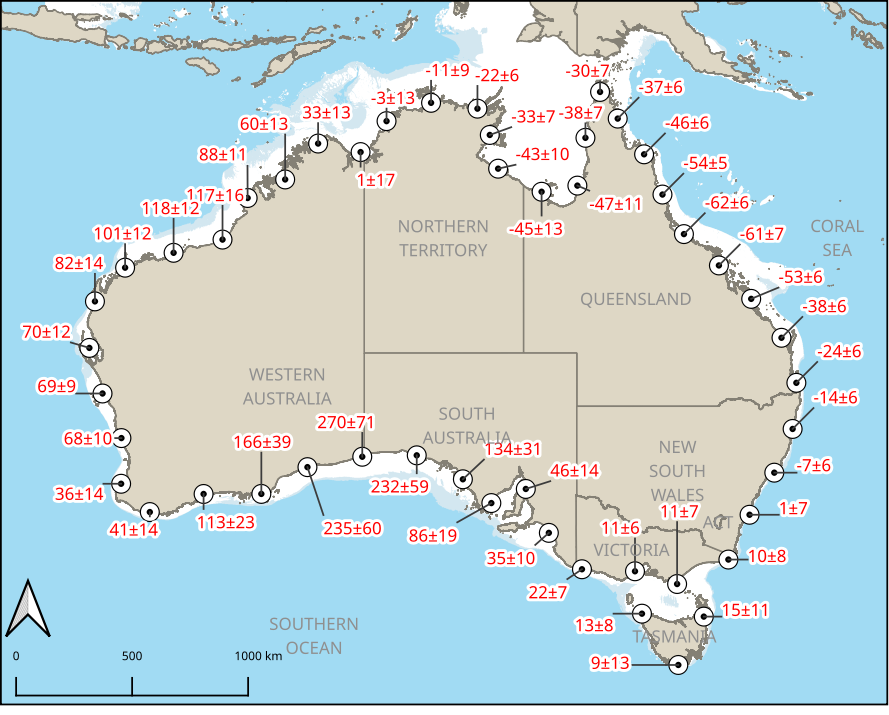
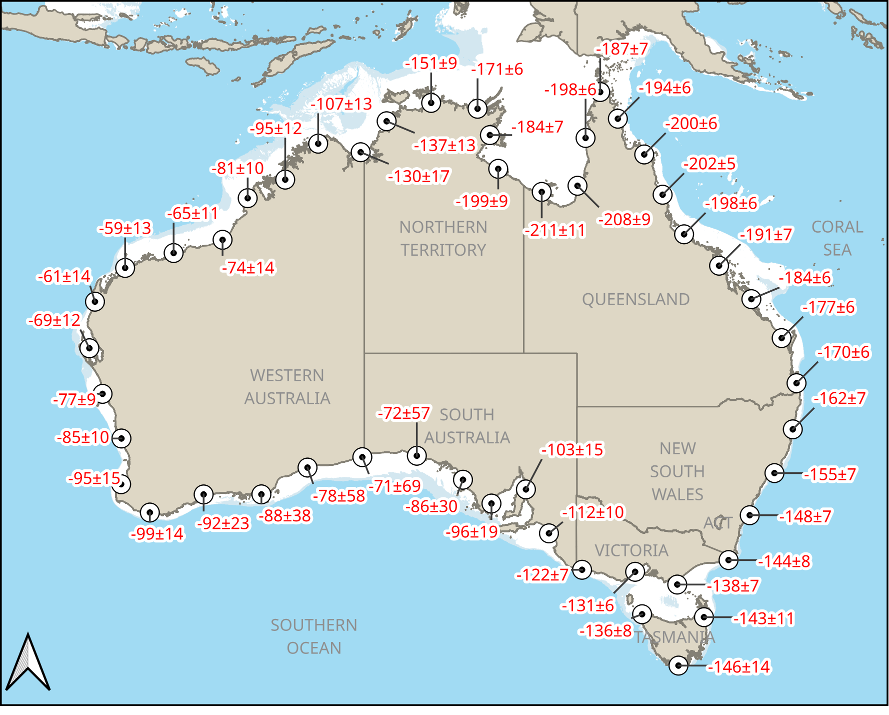
Changes due to updated Delta-R

diff --git a/js/delta_r.js b/js/delta_r.js
@@ -1,96 +1,96 @@
 var matrices = {
 	location_only: [
-		[1211.08600840001,-2218.34228330484,-933.487765821524,-0.647003416570807,2482.73072278011,1.17217893389516,0.390623754195792,-1.10599573438475],
-		[-2218.34228330484,6318.34001830126,2169.31360960935,1.1499638641502,-6749.02833261203,-3.36327466927597,-0.954385327109677,2.97404964291677],
-		[-933.487765821524,2169.31360960935,1972.41779326781,0.445639739630569,-4335.90400678122,-1.09046023010947,-1.07444303729285,2.23208962660654],
-		[-0.647003416570807,1.1499638641502,0.445639739630569,0.000352207222184,-1.23070980110238,-0.000611683267725,-0.000174904224294,0.000536371968211],
-		[2482.73072278011,-6749.02833261203,-4335.90400678122,-1.23070980110238,13499.2687021274,3.41273396949467,2.25197332078252,-6.83796982988154],
-		[1.17217893389516,-3.36327466927597,-1.09046023010947,-0.000611683267725,3.41273396949467,0.001802458966388,0.000467484067273,-0.001474447268237],
-		[0.390623754195792,-0.954385327109677,-1.07444303729285,-0.000174904224294,2.25197332078252,0.000467484067273,0.000618822875464,-0.001205957175263],
-		[-1.10599573438475,2.97404964291677,2.23208962660654,0.000536371968211,-6.83796982988154,-0.001474447268237,-0.001205957175263,0.003573910558673]
+		[1047.54443630433,-1885.39040923779,-823.088664403101,-0.562534792997392,2049.52844201186,1.00112471608693,0.332511202980178,-0.883036888798815],
+		[-1885.39040923779,5723.9070944168,1972.90822129929,0.978426328366028,-6327.54649108579,-3.04808504247899,-0.844048855425761,2.76736331363973],
+		[-823.088664403101,1972.90822129929,2106.37729826304,0.379536217718141,-4435.86819039074,-0.975056367293947,-1.16492141232554,2.31837686524314],
+		[-0.562534792997392,0.978426328366028,0.379536217718141,0.000308943680611,-0.97825688834379,-0.000524279096313,-0.000139667970419,0.00040476460449],
+		[2049.52844201186,-6327.54649108579,-4435.86819039074,-0.97825688834379,13111.790811357,3.17722550728485,2.3502084869384,-6.690738341949],
+		[1.00112471608693,-3.04808504247899,-0.975056367293947,-0.000524279096313,3.17722550728485,0.001636097576176,0.000401437706642,-0.001357021969273],
+		[0.332511202980178,-0.844048855425761,-1.16492141232554,-0.000139667970419,2.3502084869384,0.000401437706642,0.000680785665373,-0.001281357689115],
+		[-0.883036888798815,2.76736331363973,2.31837686524314,0.00040476460449,-6.690738341949,-0.001357021969273,-0.001281357689115,0.003534551887903]
 	],
 	all: [
-		[981.746320681057,-1799.00777985653,-751.699982100552,-0.52631898252278,4.4245676313026,-6.38548303216911,2001.60480400823,0.950657382324124,0.309333238666187,2.59598688356508,-0.889841805157058],
-		[-1799.00777985653,5129.49105836786,1760.8469247796,0.935908112498154,-4.05968961542763,13.0479249911562,-5474.98114177408,-2.73045974440549,-0.76833939950704,-9.40780465605429,2.41008352291842],
-		[-751.699982100552,1760.8469247796,1599.01922500913,0.357937605031346,2.89507786460931,6.00207704450118,-3512.82619633244,-0.886000141205728,-0.86840404905682,-3.07399577291466,1.80631654801621],
-		[-0.52631898252278,0.935908112498154,0.357937605031346,0.000288142591652,-0.003588290409711,0.003465893307587,-0.993093007882562,-0.000497721790832,-0.000137326774083,-0.00201044231806,0.000431550462309],
-		[4.4245676313026,-4.05968961542763,2.89507786460931,-0.003588290409711,3.35535393848761,-2.45590796054199,-4.97824166909393,0.002096898463509,-0.004345870940747,0.490421363594032,0.003278852432971],
-		[-6.38548303216911,13.0479249911562,6.00207704450118,0.003465893307587,-2.45590796054199,10.4609657853674,-5.78232680742367,-0.00737071958503,0.004951151691126,-1.44326260097081,0.000866796719374],
-		[2001.60480400823,-5474.98114177408,-3512.82619633244,-0.993093007882562,-4.97824166909393,-5.78232680742367,10926.9830263172,2.76986608164679,1.82569815993064,10.3799515539629,-5.53021481332582],
-		[0.950657382324124,-2.73045974440549,-0.886000141205728,-0.000497721790832,0.002096898463509,-0.00737071958503,2.76986608164679,0.001463258605855,0.000376284963357,0.004959221608319,-0.001195558570567],
-		[0.309333238666187,-0.76833939950704,-0.86840404905682,-0.000137326774083,-0.004345870940747,0.004951151691126,1.82569815993064,0.000376284963357,0.000505439272749,0.001005112197145,-0.000977710160642],
-		[2.59598688356508,-9.40780465605429,-3.07399577291466,-0.00201044231806,0.490421363594032,-1.44326260097081,10.3799515539629,0.004959221608319,0.001005112197145,1.82851885950827,-0.004262469066506],
-		[-0.889841805157058,2.41008352291842,1.80631654801621,0.000431550462309,0.003278852432971,0.000866796719374,-5.53021481332582,-0.001195558570567,-0.000977710160642,-0.004262469066506,0.002888151450451]
+		[1000.55894819478,-1788.65249967043,-759.793569491251,-0.536321225224905,13.6298726103314,-0.913038433597944,2065.66614028288,0.93405095350915,0.312509044516556,-1.75927377176619,-0.928394018073839],
+		[-1788.65249967043,5142.83610490906,1771.60920842475,0.92709934422005,-22.0710582201968,1.01866670142338,-5639.59349730693,-2.71421774121496,-0.776901217175216,-1.54383315448604,2.502720272434],
+		[-759.793569491251,1771.60920842475,1681.86240190226,0.358208325003827,-1.15285466247656,2.84710696047539,-3690.96207607566,-0.881277583058071,-0.919258553132474,-1.40535130286676,1.90988893477834],
+		[-0.536321225224905,0.92709934422005,0.358208325003827,0.000294013561949,-0.009192880390902,0.00032436800483,-1.02327499845651,-0.000486885189636,-0.000136452915644,0.000569672480275,0.000450118067933],
+		[13.6298726103314,-22.0710582201968,-1.15285466247656,-0.009192880390902,5.73404680465112,-2.13190005238611,21.6984449683655,0.010601638819047,-0.003700096874532,-0.702646526009885,-0.010091406441948],
+		[-0.913038433597944,1.01866670142338,2.84710696047539,0.00032436800483,-2.13190005238611,11.4283335346852,8.41188638896573,-0.001034315124793,0.00655602690588,-2.05253511087342,-0.005890261185466],
+		[2065.66614028288,-5639.59349730693,-3690.96207607566,-1.02327499845651,21.6984449683655,8.41188638896573,11671.9323643646,2.81956441476122,1.92489855565641,-3.11185902421109,-5.94064454951234],
+		[0.93405095350915,-2.71421774121496,-0.881277583058071,-0.000486885189636,0.010601638819047,-0.001034315124793,2.81956441476122,0.001443097332523,0.000376242667406,0.001452668558658,-0.001225640623963],
+		[0.312509044516556,-0.776901217175216,-0.919258553132474,-0.000136452915644,-0.003700096874532,0.00655602690588,1.92489855565641,0.000376242667406,0.000538179608807,0.000681965109962,-0.001036183172493],
+		[-1.75927377176619,-1.54383315448604,-1.40535130286676,0.000569672480275,-0.702646526009885,-2.05253511087342,-3.11185902421109,0.001452668558658,0.000681965109962,2.8349712515273,0.002772251961525],
+		[-0.928394018073839,2.502720272434,1.90988893477834,0.000450118067933,-0.010091406441948,-0.005890261185466,-5.94064454951234,-0.001225640623963,-0.001036183172493,0.002772251961525,0.003116969188373]
 	],
 	no_O18: [
-		[1168.43336706348,-2134.49371084527,-892.653344400672,-0.625599497658406,3.31109576454014,2379.84628264449,1.12769006186996,0.371797349217477,-1.05938689090649],
-		[-2134.49371084527,6078.57169073325,2086.41598391516,1.10664748002667,-0.345583120892346,-6491.97430626432,-3.23562589966545,-0.917745301087675,2.86068997124311],
-		[-892.653344400672,2086.41598391516,1906.37673362868,0.423582522610511,5.40271366225969,-4185.46374269487,-1.04907377698235,-1.04019202475485,2.15493192722847],
-		[-0.625599497658406,1.10664748002667,0.423582522610511,0.000341839366581,-0.003150864804106,-1.17576305695242,-0.000588467299196,-0.000164458781243,0.00051160661943],
-		[3.31109576454014,-0.345583120892346,5.40271366225969,-0.003150864804106,3.30963255353157,-8.65178594912286,-3.38540431222316E-07,-0.003999018295501,0.00463016074057],
-		[2379.84628264449,-6491.97430626432,-4185.46374269487,-1.17576305695242,-8.65178594912286,13009.538272571,3.28320895653536,2.17695651488757,-6.59054734971629],
-		[1.12769006186996,-3.23562589966545,-1.04907377698235,-0.000588467299196,-3.38540431222316E-07,3.28320895653536,0.001734048970736,0.000449741724,-0.00141848700536],
-		[0.371797349217477,-0.917745301087675,-1.04019202475485,-0.000164458781243,-0.003999018295501,2.17695651488757,0.000449741724,0.000600168255524,-0.001165781240751],
-		[-1.05938689090649,2.86068997124311,2.15493192722847,0.00051160661943,0.00463016074057,-6.59054734971629,-0.00141848700536,-0.001165781240751,0.003444744985635]
+		[1124.02127319674,-2013.62614504343,-855.419263780764,-0.602868110680538,14.191717226379,2323.56023697486,1.05197717177895,0.353844083775367,-1.04361889295774],
+		[-2013.62614504343,5785.57626282554,1992.50662848552,1.04349418872471,-25.2936522937299,-6347.29348268234,-3.05304414794048,-0.873642757713082,2.81762062778721],
+		[-855.419263780764,1992.50662848552,1891.2048280974,0.403207545565821,-1.14229986382173,-4155.94088684265,-0.990773333474925,-1.03539404573022,2.15128458870563],
+		[-0.602868110680538,1.04349418872471,0.403207545565821,0.000330622623103,-0.009964426342429,-1.15116003718009,-0.000548154567025,-0.000154273656674,0.000506152708422],
+		[14.191717226379,-25.2936522937299,-1.14229986382173,-0.009964426342429,5.46666785420323,25.3869602165413,0.012338874550823,-0.001866293217833,-0.011741790950283],
+		[2323.56023697486,-6347.29348268234,-4155.94088684265,-1.15116003718009,25.3869602165413,13124.6777354108,3.17424847720728,2.16175114124422,-6.6780565830861],
+		[1.05197717177895,-3.05304414794048,-0.990773333474925,-0.000548154567025,0.012338874550823,3.17424847720728,0.00162288059592,0.000422926834905,-0.001380634821194],
+		[0.353844083775367,-0.873642757713082,-1.03539404573022,-0.000154273656674,-0.001866293217833,2.16175114124422,0.000422926834905,0.000599730179613,-0.00116352615254],
+		[-1.04361889295774,2.81762062778721,2.15128458870563,0.000506152708422,-0.011741790950283,-6.6780565830861,-0.001380634821194,-0.00116352615254,0.003502338346612]
 	],
 	no_C13: [
-		[1209.32361723957,-2215.43896050571,-933.477538797826,-0.645724824012345,-2.41417200857575,2478.69067743881,1.17080017196234,0.38902563768071,-1.10395290057574],
-		[-2215.43896050571,6309.42220351447,2169.40000007585,1.14767708511838,5.75793345409202,-6737.78715112365,-3.35888520897312,-0.950529643794625,2.96852518643086],
-		[-933.477538797826,2169.40000007585,1974.11481987871,0.444703306691463,7.40521184733195,-4329.87383041141,-1.09109070917689,-1.06978106081952,2.22807462133192],
-		[-0.645724824012345,1.14767708511838,0.444703306691463,0.000351524898764,-9.64229109998956E-05,-1.22829129584676,-0.000610460886336,-0.000174598484212,0.000535327337278],
-		[-2.41417200857575,5.75793345409202,7.40521184733195,-9.64229109998956E-05,9.92816559196664,-3.19248093999342,-0.003681431984043,0.003455820467448,0.00042246571839],
-		[2478.69067743881,-6737.78715112365,-4329.87383041141,-1.22829129584676,-3.19248093999342,13474.1075366402,3.40729727384583,2.24649338734155,-6.82484044521241],
-		[1.17080017196234,-3.35888520897312,-1.09109070917689,-0.000610460886336,-0.003681431984043,3.40729727384583,0.001800327409489,0.000465295735588,-0.001471743586354],
-		[0.38902563768071,-0.950529643794625,-1.06978106081952,-0.000174598484212,0.003455820467448,2.24649338734155,0.000465295735588,0.000618825308508,-0.00120347064119],
-		[-1.10395290057574,2.96852518643086,2.22807462133192,0.000535327337278,0.00042246571839,-6.82484044521241,-0.001471743586354,-0.00120347064119,0.003566995373573]
+		[1065.94052120807,-1911.69404892639,-833.569872041171,-0.566450364758188,4.49155290174732,2217.49315882492,1.00074179313492,0.353763695758244,-0.995695866418202],
+		[-1911.69404892639,5561.4927409851,1943.02221000449,0.980829446786836,-11.85032316328,-6118.00096964829,-2.93873953256946,-0.870658962699961,2.71533891549191],
+		[-833.569872041171,1943.02221000449,1850.51520978948,0.392007065854836,1.22943914009091,-4059.22221631732,-0.966234140437477,-1.01278003468491,2.10150286975161],
+		[-0.566450364758188,0.980829446786836,0.392007065854836,0.000307357748043,-0.003921977024477,-1.08842493780305,-0.000516733009669,-0.000156714682991,0.00047810926992],
+		[4.49155290174732,-11.85032316328,1.22943914009091,-0.003921977024477,9.56564166784366,17.7239285892893,0.005751146868453,0.005915362874204,-0.009192922518924],
+		[2217.49315882492,-6118.00096964829,-4059.22221631732,-1.08842493780305,17.7239285892893,12760.2983416364,3.06066627230877,2.13476830603002,-6.49831973471597],
+		[1.00074179313492,-2.93873953256946,-0.966234140437477,-0.000516733009669,0.005751146868453,3.06066627230877,0.00156423449736,0.000421522840456,-0.001330579046908],
+		[0.353763695758244,-0.870658962699961,-1.01278003468491,-0.000156714682991,0.005915362874204,2.13476830603002,0.000421522840456,0.000589885414563,-0.001148146533197],
+		[-0.995695866418202,2.71533891549191,2.10150286975161,0.00047810926992,-0.009192922518924,-6.49831973471597,-0.001330579046908,-0.001148146533197,0.003411281087113]
 	]
 };
 
 var coefficients = {
 	location_only: [[
-		83.50331,
-		-240.5357,
-		-194.39014,
-		-0.02811,
-		320.6077,
-		0.08894,
-		0.09842,
-		-0.18071
+		-140.405216160,
+		 -43.305516144,
+		 -97.724922753,
+		   0.008873205,
+		   9.967426835,
+		  -0.008975221,
+		   0.049201735,
+		  -0.026830853
 	]],
 	all: [[
-		82.22061,
-		-210.20784,
-		-177.8127,
-		-0.02673,
-		4.76704,
-		-2.39178,
-		266.57559,
-		0.07309,
-		0.08389,
-		-6.91369,
-		-0.15567
+ 		 -99.35189637,
+ 		-108.62983816,   
+ 		-124.90234449,  
+ 		  -0.01137384, 
+ 		   3.76869645,
+ 		  -1.68008167, 
+ 		  88.87886964,  
+ 		   0.02188261,
+ 		   0.05531372,
+ 		  -6.94251872, 
+ 		  -0.06482373 
 	]],
 	no_O18: [[
-		88.3849,
-		-241.0452,
-		-186.42485,
-		-0.03275,
-		4.87943,
-		307.85226,
-		0.08894,
-		0.09253,
-		-0.17388
+ 		-105.135221936,         
+ 		-112.477339958,           
+ 		-127.109726926,            
+ 		  -0.009481762,          
+ 		   0.266782914,         
+ 		  85.412718723,           
+ 		   0.025451781,         
+ 		   0.061739157,         
+ 		  -0.060654148         
 	]],
 	no_C13: [[
-		84.37862,
-		-242.62338,
-		-197.07508,
-		-0.02807,
-		-3.5997,
-		321.76521,
-		0.09027,
-		0.09717,
-		-0.18086
+		-108.520124885,          
+		-104.139656072,            
+		-127.790929958,            
+		  -0.006644573,          
+		  -5.733827953,         
+		  73.549730195,           
+		   0.021402276,         
+		   0.058284454,         
+		  -0.054570716         
 	]]
 };
 
@@ -98,7 +98,7 @@ var coastal_coords = [[285,180],[318,144],[361,152],[387,121],[432,103],[478,109
 
 function calculate(latitude, longitude, d13C, d18O){
 	if(!latitude || !longitude){
-		document.getElementById("result").innerHTML="<div class='alert alert-danger' role='alert'>You must select a point on the Australian coast</div>";
+		document.getElementById("result").innerHTML="<h1 style='color:red'>You must select a point on the Australian coast.</h1>";
 		return 0;
 	}
 	var coefs = [];
@@ -140,8 +140,8 @@ function calculate(latitude, longitude, d13C, d18O){
 	const dR = MMult(predictors, transpose(coefs));
 	const se = Math.sqrt(MMult(predictors, MMult(vcov, transpose(predictors))));
 	document.getElementById("result").innerHTML=""
-		+ "<div class='alert alert-success' role='alert'>&Delta;R: " + parseFloat(dR).toFixed(2) + "&nbsp;&nbsp;"
-		+ "&epsilon;: " + parseFloat(se).toFixed(2) + "</div>";
+		+ "<h1>&Delta;R:" + parseFloat(dR).toFixed(2) + "&nbsp;&nbsp;"
+		+ "&epsilon;:" + parseFloat(se).toFixed(2) + "</h1>";
 
 }
 
@@ -189,7 +189,7 @@ function bearing(lon2, lat2){
 }
 
 function get_coords(){
-	const queryString = window.location;
+	const queryString = window.location.search;
 	const re = /\?(\d+),(\d+)/;
 	var xy = re.exec(queryString);
 	if(!isCoastal([xy[1],xy[2]])){

diff --git a/pages/about.html b/pages/about.html
@@ -11,7 +11,7 @@
   <div class="col-12">
     <h2>Introduction</h2>
     <p>
-      182 Records of ΔR measurements containing &delta;<sup>18</sup>O and &delta;<sup>13</sup>C values and Lat-Long
+      192 Records of ΔR measurements containing &delta;<sup>18</sup>O and &delta;<sup>13</sup>C values and Lat-Long
       coordinates were processed. The distribution of sites is shown in Fig. 1.
     </p>
   </div>
@@ -129,7 +129,7 @@
   <div class="col-12">
     <h2>Conclusion</h2>
     <p>
-      An R<sup>2</sup> value of 0.69 for the full model was considered reasonable. Although it can be argued that a
+      An R<sup>2</sup> value of 0.65 for the full model was considered reasonable. Although it can be argued that a
       model
       using location as a predictor can always be manipulated to compliance, given sufficient complexity and a measure
       of
@@ -191,10 +191,24 @@
       </figcaption>
     </figure>
   </div>
+
+  <div class="col-12">
+    <p>
+	Note that the errors shown represent the standard error based on covariances within the described model alone, assuming zero measurement errors.
+    </p>
+    <p>
+    Actually the measured &Delta;R values had an average standard error of 60 years.</br>
+      The measured &delta;<sup>13</sup>C values had an average standard error of 0.49.</br>
+	The measured &delta;<sup>18</sup>O values had an average standard error of 0.28.
+    </p>
+    <p>
+	The errors associated with the measurement of &Delta;R (averaging &plusmn;60 years) are not included in the stated standard errors.  It is generally accepted that measurement errors of the dependent variable do not affect the coefficients of a linear model, if it can be assumed that the measurement errors have an expected value of zero.  Such errors may have had an adverse effect on the ability to establish the statistical significance of the model.
+    </p>
+  </div>
 </div>
 
 <div class="row">
   <div class="col-12">
-    <small>Last updated 2020-05-05</small>
+    <small>Last updated 2020-10-01</small>
   </div>
 </div>

diff --git a/pages/calculator.html b/pages/calculator.html
@@ -6,7 +6,7 @@
 
 <div class="row">
   <div class="col-12">
-    <p class="text-muted">Revised 2020-06-04 </p>
+    <p class="text-muted">Revised 2020-10-01 </p>
   </div>
 </div>
 
@@ -73,6 +73,9 @@
         </div>
         <div class="col-lg-6">
           <div id="result"></div>
+          <small id="ErrorNote" class="form-text text-muted">
+		  NOTE THAT THE STANDARD ERROR TERM RELATES TO POSITIONAL MODEL PREDICTION, AND EXCLUDES ERROR IN THE DEPENDENT VARIABLE (MEASUREMENT ERROR), WHICH AVERAGES 60 YEARS
+          </small>
         </div>
       </div>
     </fieldset>

diff --git a/CHANGELOG.md b/CHANGELOG.md
@@ -15,6 +15,7 @@ The format is based on [Keep a Changelog](https://keepachangelog.com/en/1.0.0/),
 ### Changed
 - Updated better match JCU styling and to not use tables for layout
 - resized images to be smaller and moved to a img folder
+- 2020-10-01 All values changed due to revised Delta-R inputs
 
 ### Removed
 - Removed html and images auto-generated by latex2html
